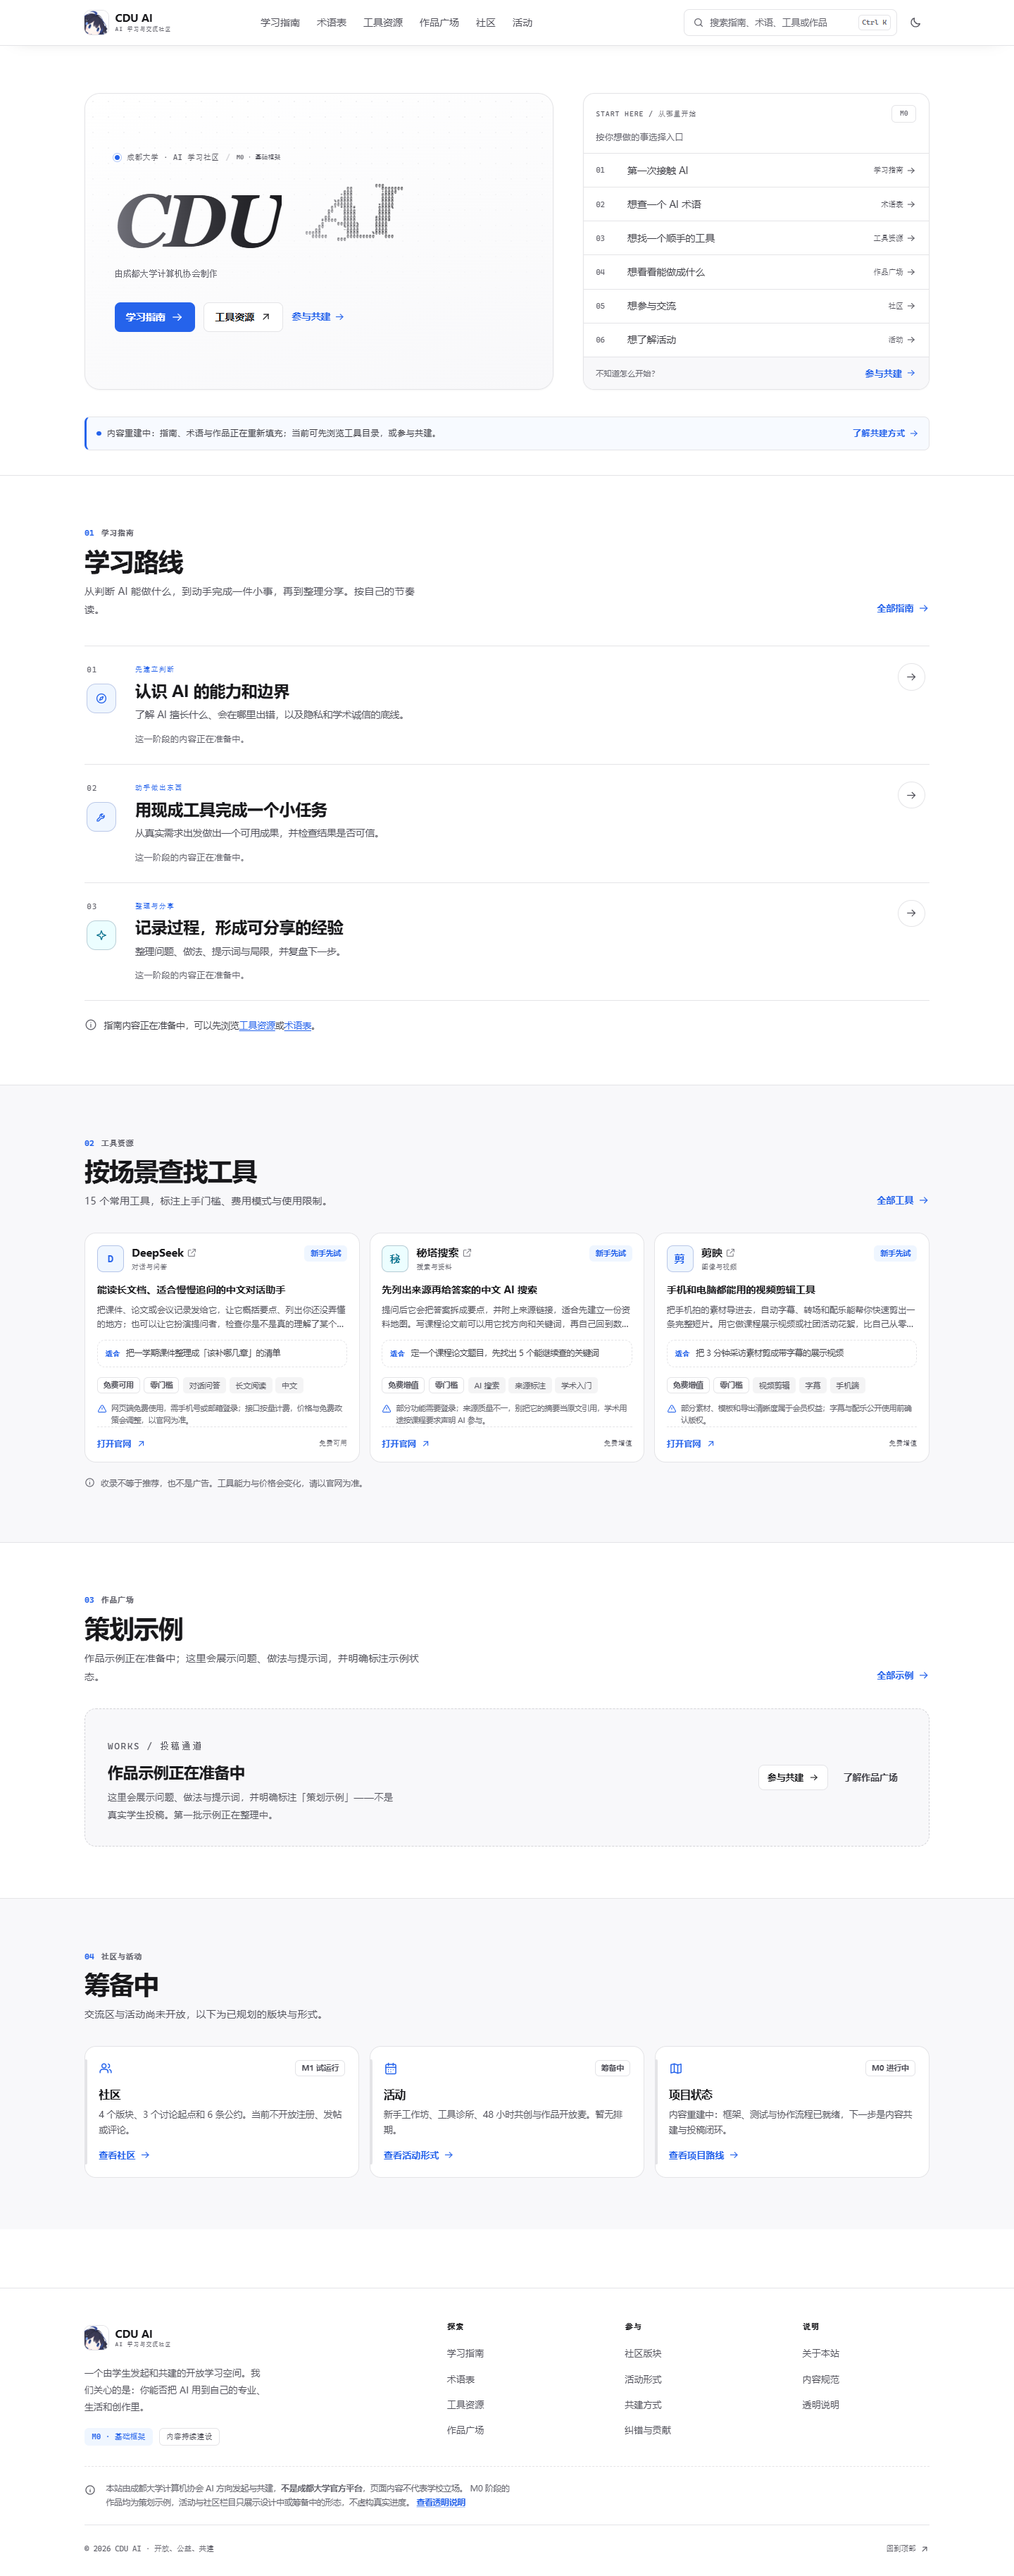
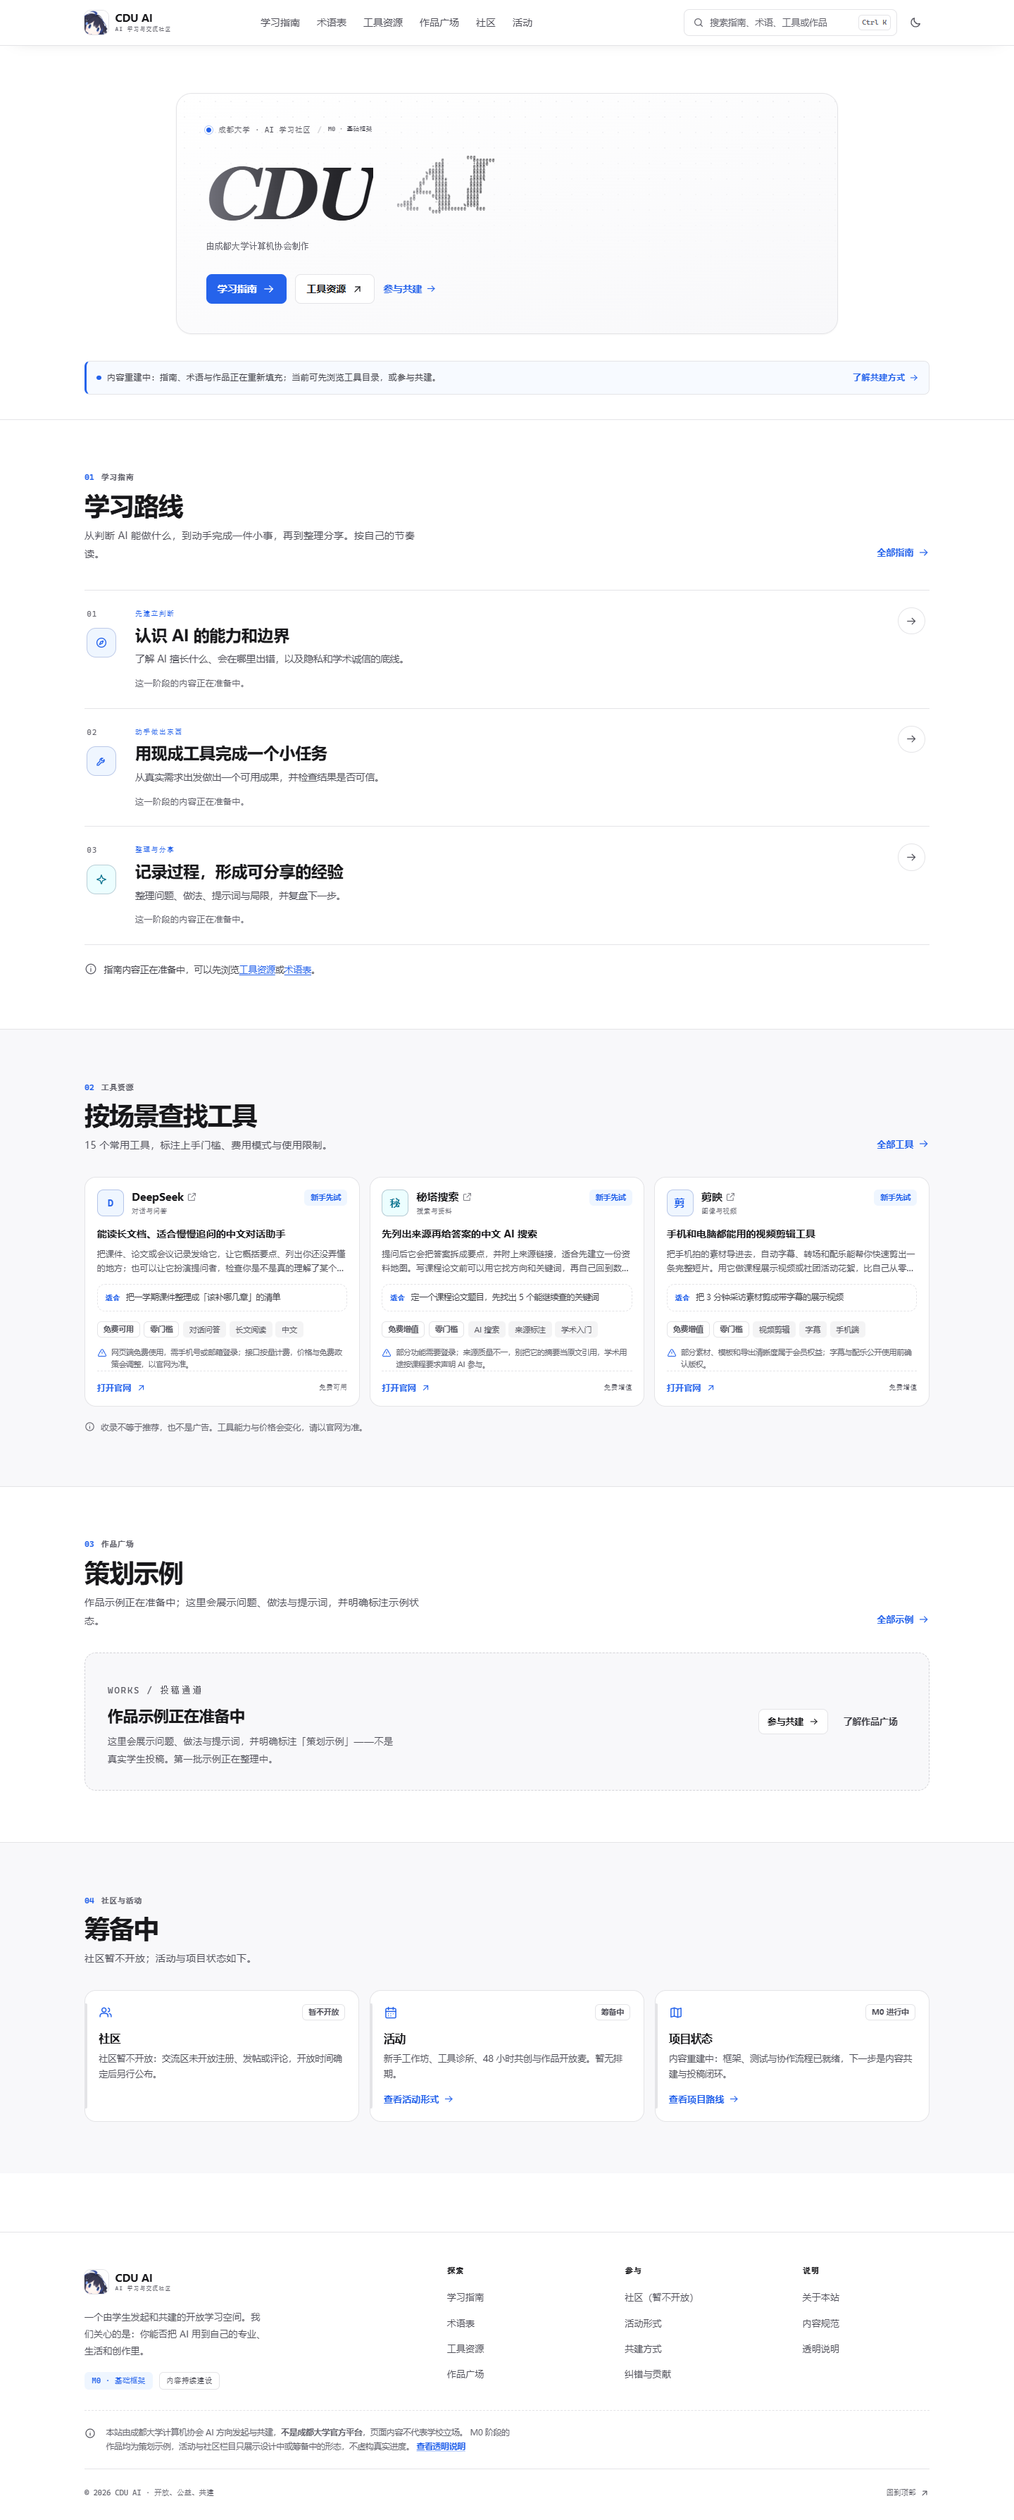
feat: 移除首页 Hero 右侧快速索引面板

diff --git a/src/styles/home-v2.css b/src/styles/home-v2.css
@@ -18,9 +18,8 @@
 
 .home-hero__grid {
   display: grid;
-  grid-template-columns: minmax(0, 1.15fr) minmax(280px, 0.85fr);
-  gap: clamp(1.4rem, 3.2vw, 2.6rem);
-  align-items: stretch;
+  grid-template-columns: minmax(0, 1fr);
+  gap: 0;
 }
 
 .home-hero__main {
@@ -28,7 +27,9 @@
   display: flex;
   flex-direction: column;
   justify-content: center;
-  max-width: none;
+  width: 100%;
+  max-width: 940px;
+  margin-inline: auto;
   overflow: hidden;
   padding: clamp(1.5rem, 3vw, 2.6rem);
   border: 1px solid var(--line);
@@ -180,118 +181,6 @@
 
 .home-hero__text-link:hover {
   border-bottom-color: currentColor;
-}
-
-/* 索引面板 */
-.home-hero__board {
-  overflow: hidden;
-  border: 1px solid var(--line);
-  border-radius: var(--radius-lg);
-  background: var(--surface);
-  box-shadow: var(--shadow-xs);
-}
-
-.home-hero__board-head {
-  display: flex;
-  align-items: center;
-  justify-content: space-between;
-  gap: 1rem;
-  padding: 1rem 1.1rem 0.65rem;
-}
-
-.home-hero__board-label {
-  margin: 0;
-  color: var(--muted);
-  font-size: 0.62rem;
-  letter-spacing: 0.1em;
-}
-
-.home-hero__stamp {
-  display: inline-flex;
-  align-items: center;
-  justify-content: center;
-  min-width: 2.2rem;
-  padding: 0.18rem 0.45rem;
-  border: 1px solid var(--line);
-  border-radius: var(--radius-xs);
-  color: var(--faint);
-  font-size: 0.6rem;
-}
-
-.home-hero__board-desc {
-  margin: 0;
-  padding: 0 1.1rem 0.7rem;
-  color: var(--faint);
-  font-size: 0.78rem;
-}
-
-.home-index {
-  border-top: 1px solid var(--home-rule);
-}
-
-.home-index__row {
-  display: grid;
-  grid-template-columns: 2.1rem minmax(0, 1fr) auto;
-  align-items: center;
-  gap: 0.7rem;
-  padding: 0.72rem 1.1rem;
-  border-bottom: 1px solid var(--home-rule);
-  color: var(--ink-soft);
-  text-decoration: none;
-  transition: background-color var(--dur-fast) var(--ease-out), color var(--dur-fast) var(--ease-out);
-}
-
-.home-index__row:last-child {
-  border-bottom: 0;
-}
-
-.home-index__row:hover {
-  background: var(--bg-soft);
-  color: var(--ink);
-}
-
-.home-index__no {
-  color: var(--faint);
-  font-size: 0.66rem;
-}
-
-.home-index__label {
-  font-size: 0.86rem;
-}
-
-.home-index__target {
-  display: inline-flex;
-  align-items: center;
-  gap: 0.3rem;
-  color: var(--muted);
-  font-family: var(--font-mono);
-  font-size: 0.66rem;
-  transition: color var(--dur-fast) var(--ease-out);
-}
-
-.home-index__target svg {
-  transition: transform var(--dur-fast) var(--ease-out);
-}
-
-.home-index__row:hover .home-index__target {
-  color: var(--brand);
-}
-
-.home-index__row:hover .home-index__target svg {
-  transform: translateX(3px);
-}
-
-.home-hero__board-foot {
-  display: flex;
-  flex-wrap: wrap;
-  align-items: center;
-  justify-content: space-between;
-  gap: 0.6rem 1rem;
-  padding: 0.8rem 1.1rem;
-  border-top: 1px solid var(--home-rule);
-  background: var(--bg-soft);
-  color: var(--faint);
-  font-size: 0.7rem;
 }
 
 /* 内容重建状态条 */
@@ -695,7 +584,6 @@
 }
 
 /* 焦点可见性 */
-.home-index__row:focus-visible,
 .home-path__go:focus-visible,
 .home-status-card:focus-visible,
 .home-empty a:focus-visible {
@@ -716,9 +604,6 @@
     max-width: none;
   }
 
-  .home-hero__board {
-    max-width: 680px;
-  }
 }
 
 @media (max-width: 760px) {
@@ -753,11 +638,4 @@
     flex: 1 1 100%;
   }
 
-  .home-index__row {
-    padding: 0.66rem 0.9rem;
-  }
-
-  .home-hero__board-foot {
-    padding: 0.7rem 0.9rem;
-  }
 }

diff --git a/docs/DESIGN-REVIEW.md b/docs/DESIGN-REVIEW.md
@@ -98,7 +98,7 @@
 
 实现范围：
 
-1. 新 Hero：`CDU AI` 渐变品牌字（衬线斜体、左→右灰黑到黑）+ 编号索引面板 + 内容重建状态条；已按维护者反馈去掉「跨专业」、中文大标题与介绍段落，小字为「由成都大学计算机协会制作」。
+1. 新 Hero：`CDU AI` 渐变品牌字（衬线斜体、左→右灰黑到黑）+ 内容重建状态条；已按维护者反馈去掉「跨专业」、中文大标题、介绍段落与右侧「从哪里开始」索引面板，Hero 为单列居中卡片，小字为「由成都大学计算机协会制作」。
 2. 分区：`01 学习路线 / 02 工具资源 / 03 作品广场 / 04 社区与活动`，编号 + 细线；修复 section 的 `aria-labelledby`。
 3. 学习路径改为行式时间线；作品空状态改为结构化投稿入口；社区三卡加左侧强调线。
 4. 首屏 CSS stagger 进入 + 滚动 reveal（渐进增强）+ hover/焦点细化。
@@ -138,3 +138,4 @@
 - 「AI」字样改为 ASCII 字符画（Canvas 轻量实现）：字符密度采样 + 轻微波浪 / 指针视差；无 three.js / React；减少动效时静态渲染；无 JS 时回退普通艺术字；标题可访问名称仍为「CDU AI」。
 - 实测：ASCII 动画正常、reduce-motion 下静止、无 JS 时 fallback 可见；CLS = 0、无 console error。
 - 社区功能关闭：首页社区卡改为不可点击的「暂不开放」提示，页脚入口标注暂不开放；社区页只保留提示，不再展示版块 / 公约 / 参与路径。
+- 移除 Hero 右侧「START HERE / 从哪里开始」快速索引面板；Hero 改为单列居中卡片（最大 940px），保留点阵材质与左侧内容对齐。
